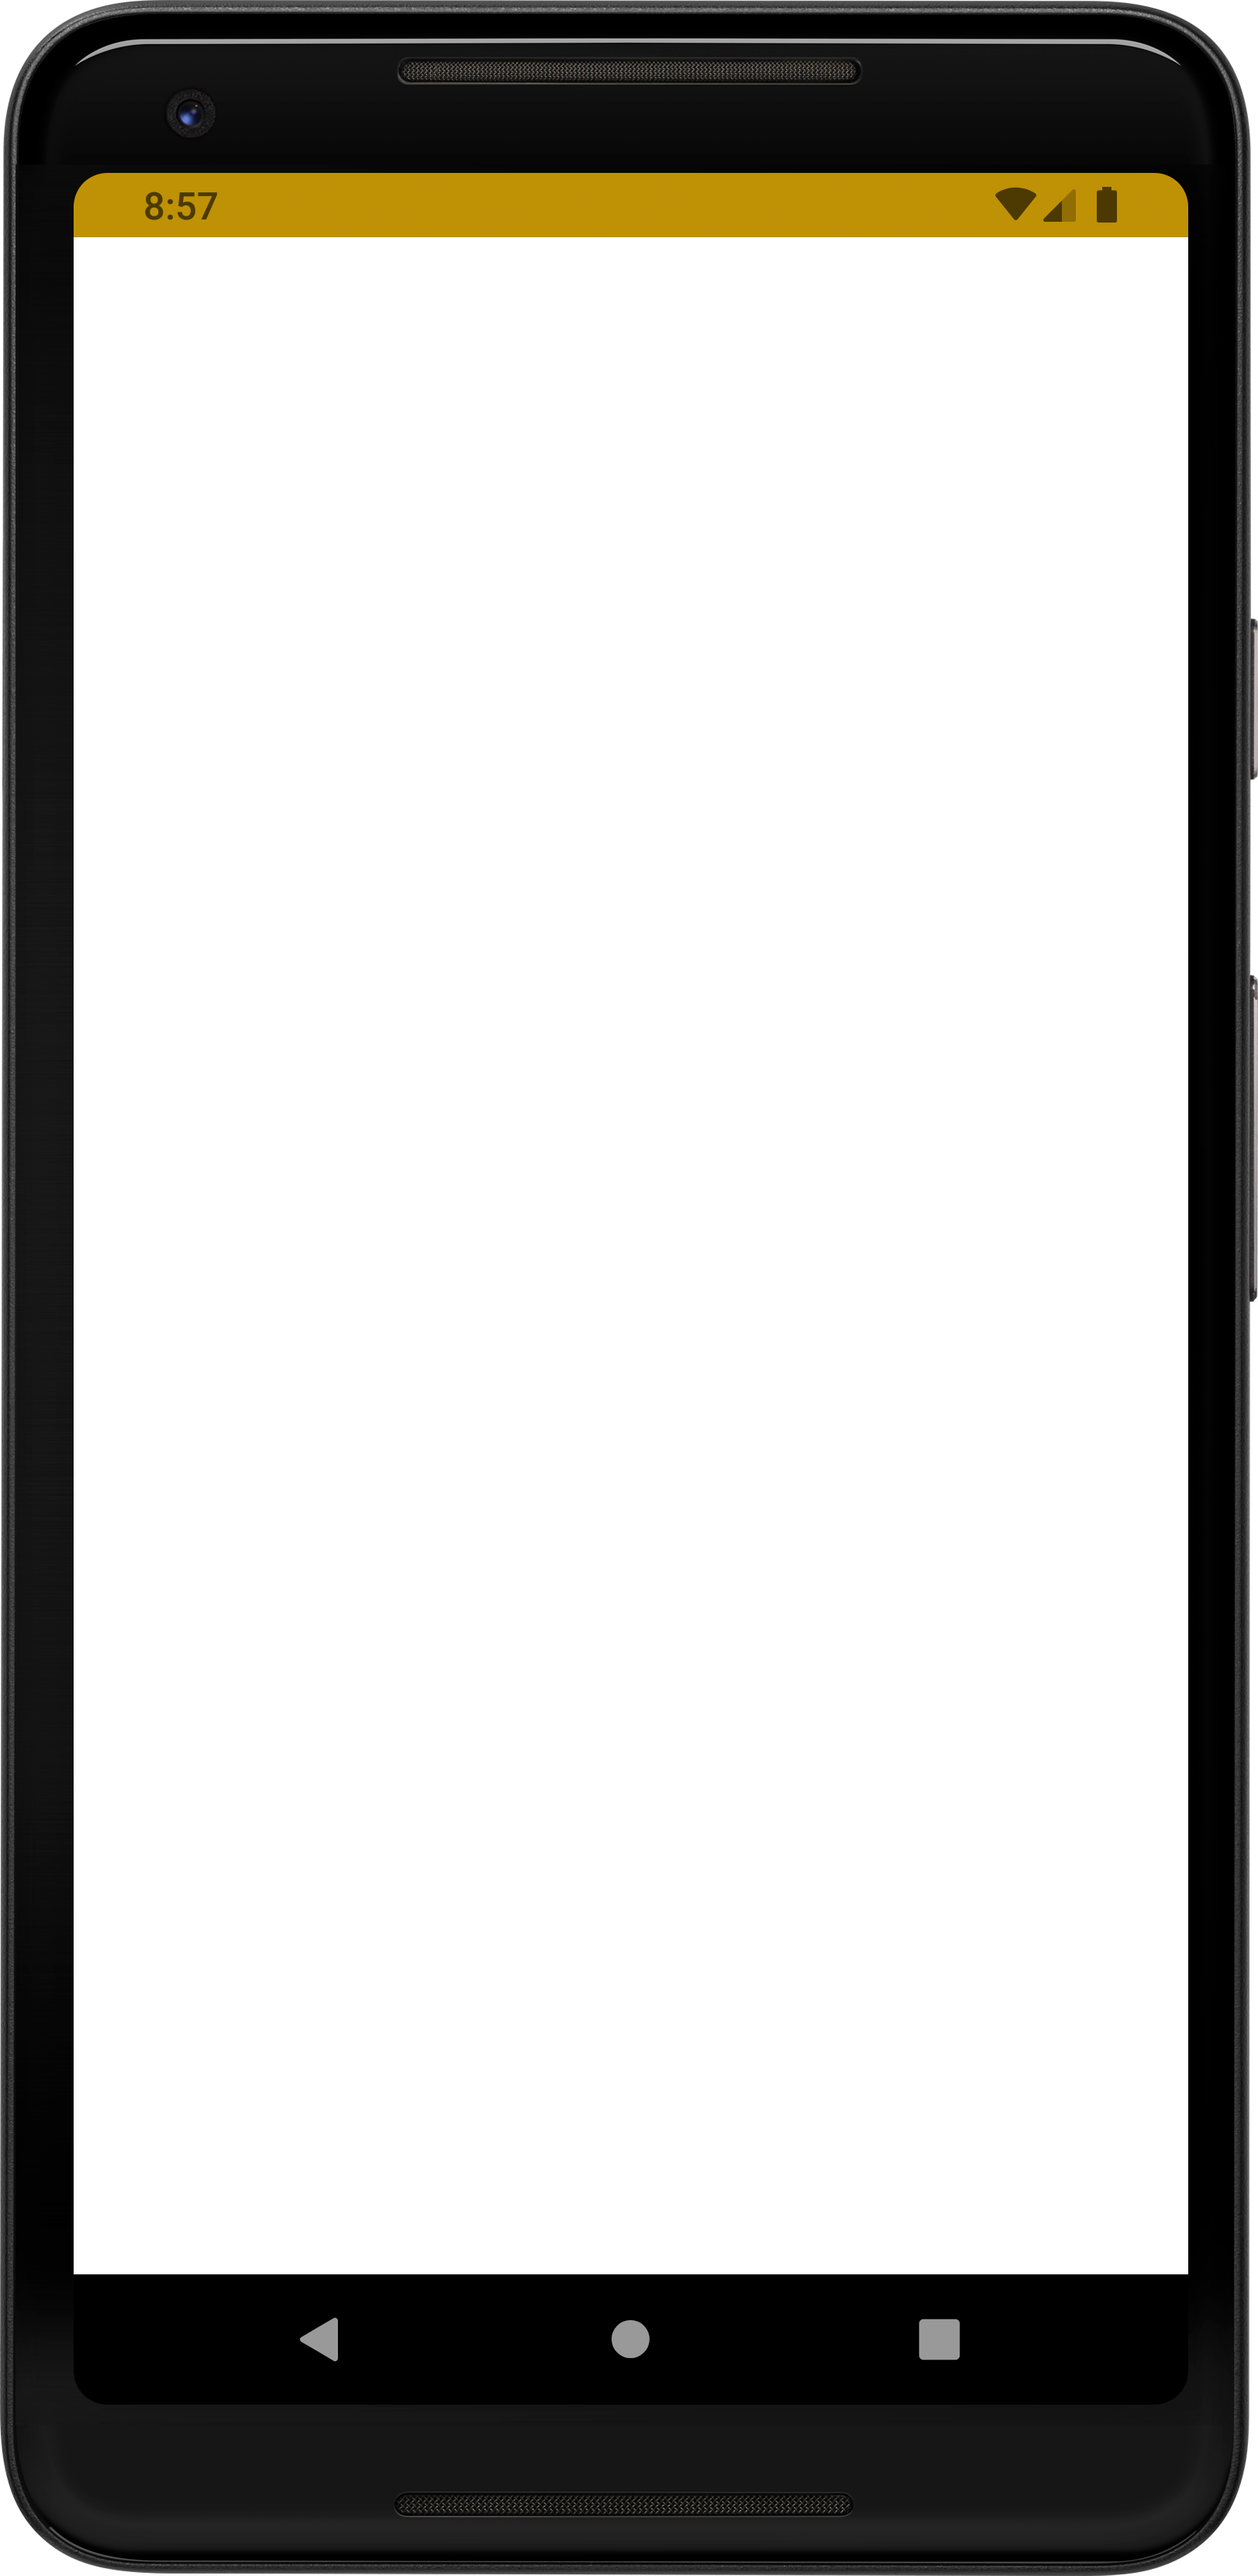
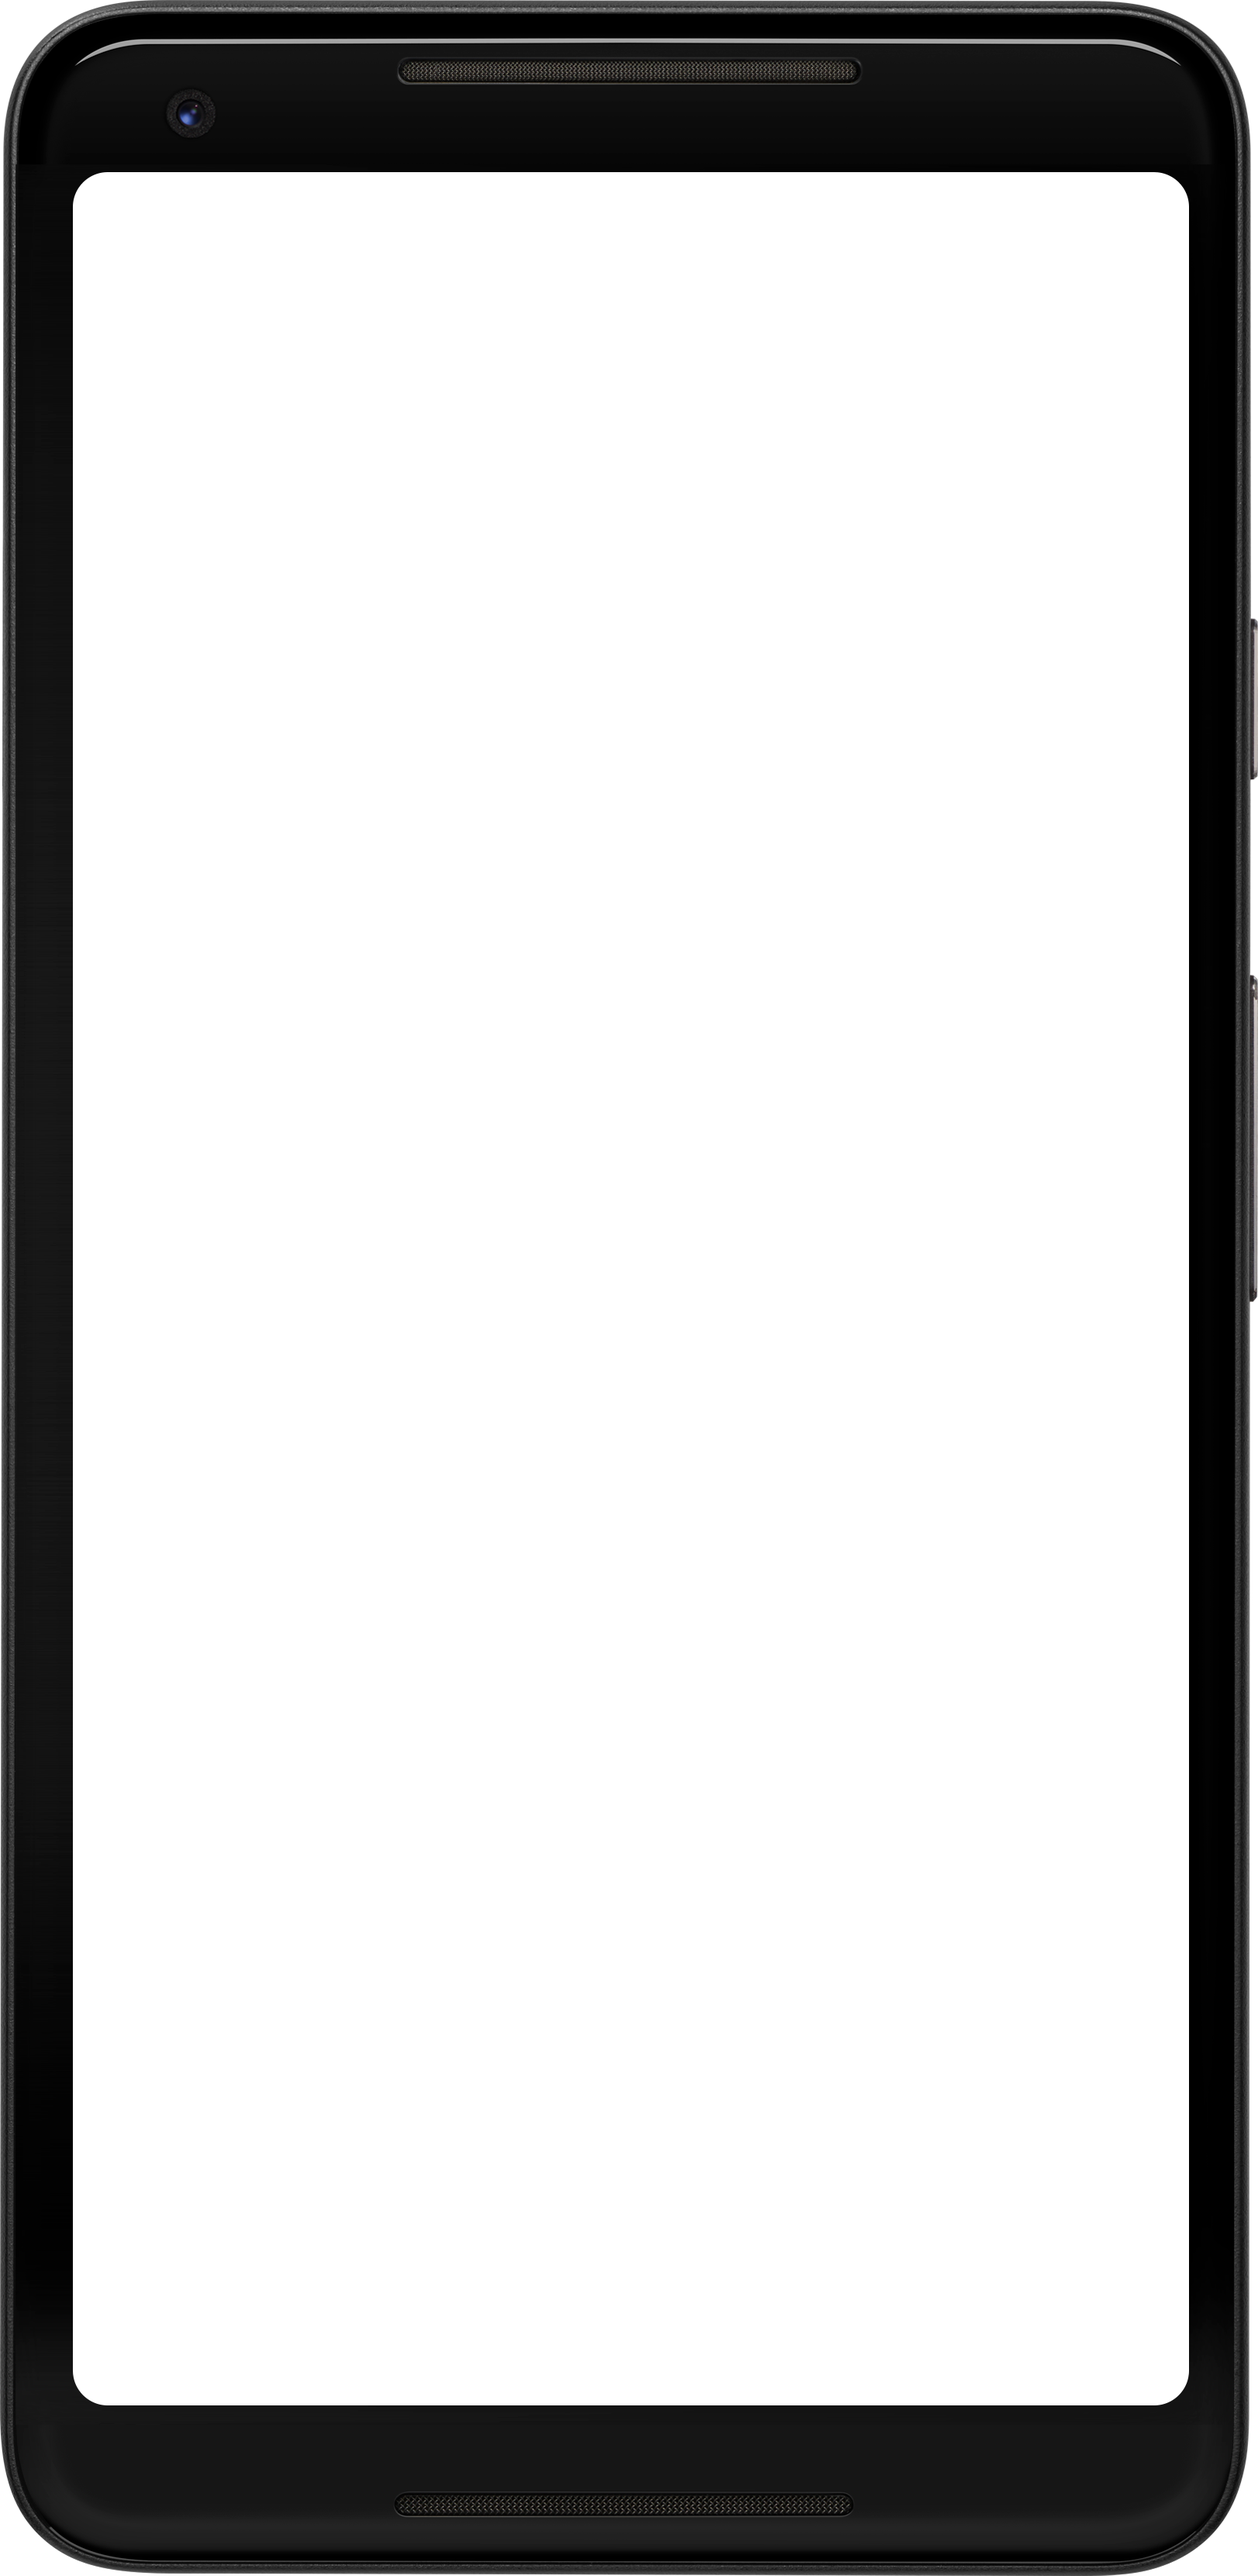
Capture system UI in automated screenshots

Changed region(s): [[0.0308, 0.8682, 0.955, 0.9612], [0.0616, 0.062, 0.955, 0.093]]

diff --git a/test_driver/screenshots_test.dart b/test_driver/screenshots_test.dart
@@ -26,18 +26,18 @@ void main() {
 
         await driver.tap(find.byValueKey('d-04'));
 
-        final screenshotItems = await driver.screenshot();
+        final screenshotItems = await _takeScreenshot();
         await _saveScreenshot(locale, '1', screenshotItems);
 
         await driver.tap(find.byType('FloatingActionButton'));
 
-        final screenshotAddItem = await driver.screenshot();
+        final screenshotAddItem = await _takeScreenshot();
         await _saveScreenshot(locale, '2', screenshotAddItem);
 
         await driver.tap(find.byValueKey('cancel-dialog'));
         await driver.tap(find.byType('ShoppingListBar'));
 
-        final screenshotShoppingLists = await driver.screenshot();
+        final screenshotShoppingLists = await _takeScreenshot();
         await _saveScreenshot(locale, '3', screenshotShoppingLists);
 
         await _saveFeatureGraphic(
@@ -54,11 +54,20 @@ void main() {
         await driver.tap(find.byValueKey('dark-theme-0'));
         await driver.tap(find.byValueKey('settings-back'));
 
-        final screenshotDarkTheme = await driver.screenshot();
+        final screenshotDarkTheme = await _takeScreenshot();
         await _saveScreenshot(locale, '4', screenshotDarkTheme);
       }, timeout: const Timeout(Duration(minutes: 5)));
     }
   });
+}
+
+Future<List<int>> _takeScreenshot() async {
+  await Process.run('flutter', ['screenshot']);
+  final file = File('flutter_01.png');
+  final bytes = await file.readAsBytes();
+  await file.delete();
+
+  return bytes;
 }
 
 Future<void> _saveScreenshot(
